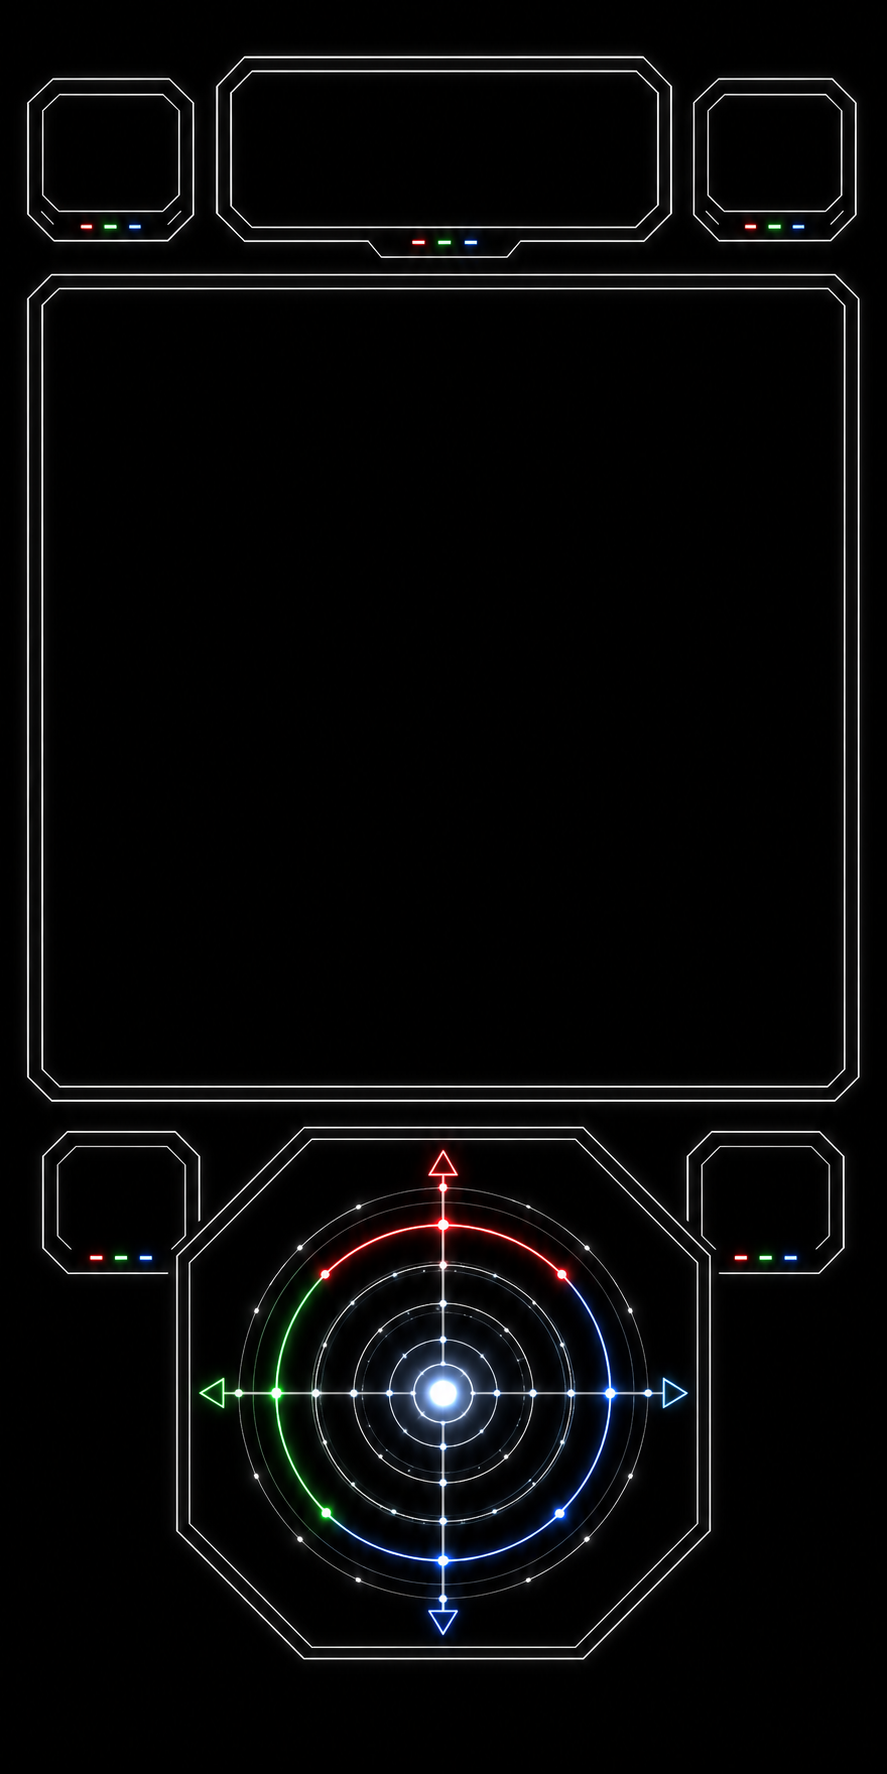
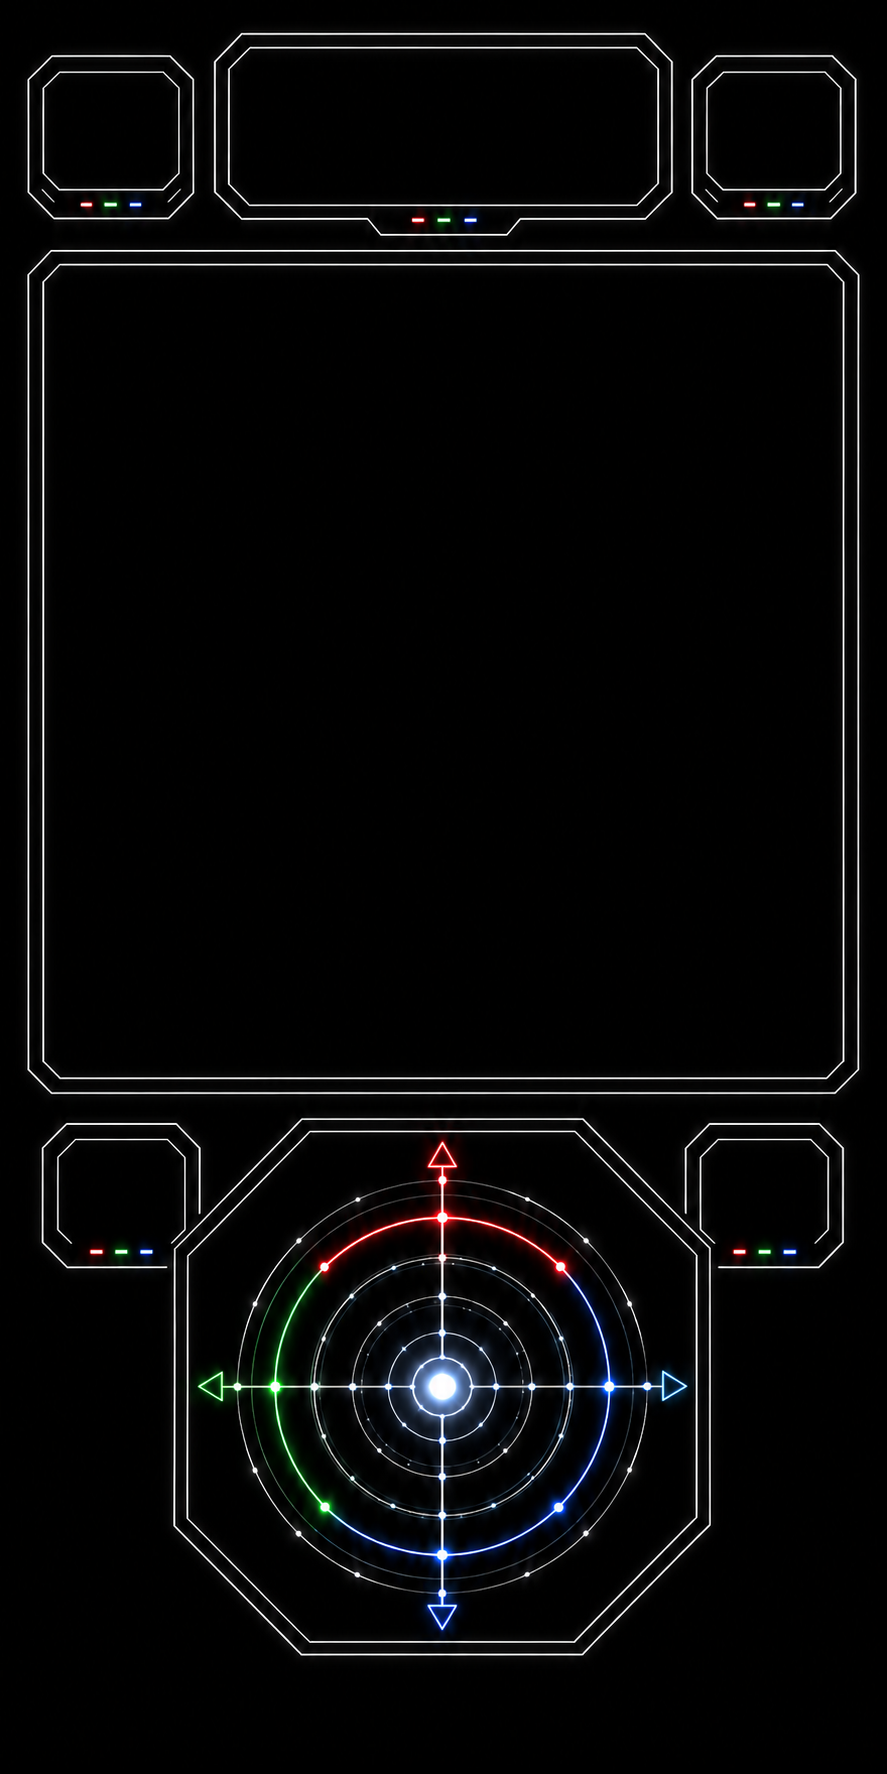
Add files via upload

Changed region(s): [[0.0304, 0.0, 0.9741, 0.9611], [0.274, 0.8991, 0.3348, 0.9301]]

diff --git a/index.html b/index.html
@@ -1,7 +1,7 @@
 <!DOCTYPE html>
 <!--
 Block-A-Zoids
-Trackpad Prototype p067: Nudges the Vector playfield slightly higher again and moves only the Sector/Cycle numeric values upward while keeping their labels fixed.
+Trackpad Prototype p068: Uses the vertically tightened Vector skin and recalibrates the top HUD, playfield, lower status readouts, and lower controls to the revised artwork geometry.
 Copyright © 2026 Marcus Couto. All rights reserved.
 
 This source code, artwork, game design, and related assets are not licensed for reuse, redistribution, modification, or commercial use without written permission.
@@ -10,7 +10,7 @@ Font License Notices
 - Orbitron: Copyright 2018 The Orbitron Project Authors (https://github.com/theleagueof/orbitron), with Reserved Font Name ‘Orbitron’. Designed originally by Matt McInerney. Licensed under the SIL Open Font License, Version 1.1. Keep OFL.txt with the distributed font files. The Orbitron license applies only to the font software and does not place Block-A-Zoids under the OFL.
 
 -->
-<html data-build-version="trackpad-p067">
+<html data-build-version="trackpad-p068">
 <head>
     <meta name="viewport" content="width=device-width, initial-scale=1.0, minimum-scale=1.0, maximum-scale=1.0, viewport-fit=cover, user-scalable=no">
     <title>Block-A-Zoids</title>
@@ -7808,7 +7808,7 @@ Font License Notices
     </div>
 
     <script>
-        const BUILD_VERSION = `Build ${document.documentElement.dataset.buildVersion || 'trackpad-p067'}`;
+        const BUILD_VERSION = `Build ${document.documentElement.dataset.buildVersion || 'trackpad-p068'}`;
 
         // Central diagnostic feature flags. Change values here before loading the page to isolate systems.
         const GAME_FEATURE_FLAGS = window.BLOCKAZOIDS_FEATURE_FLAGS = {
@@ -9365,25 +9365,26 @@ Font License Notices
                             masterHeight: 1774,
                             masterPlayfieldSize: 790,
                             playfieldLeft: 5.240000,
-                            playfieldTop: 16.700000,
+                            playfieldTop: 15.347238,
                             scoreLeft: 25.479143,
-                            scoreTop: 4.058625,
+                            scoreTop: 2.762120,
                             scoreWidth: 48.590755,
                             scoreHeight: 8.850056,
                             zapLeft: 79.932356,
-                            zapTop: 5.467869,
+                            zapTop: 4.171364,
                             zapWidth: 14.881624,
                             zapHeight: 6.538895,
                             startLeft: 12.232244,
-                            startTop: 8.680947,
+                            startTop: 7.384442,
                             startWidth: 14.994363,
-                            statusTop: 68.550000,
+                            statusTop: 68.042841,
                             statusWidth: 14.994363,
                             sectorX: 13.900000,
                             cycleX: 85.700000,
-                            lowerControlsTop: 89.900000
+                            lowerControlsTop: 89.505073
                         },
                         candidates: [
+                            'blockazoids-skin-vector-frame-p068.png',
                             'blockazoids-skin-vector-frame.png',
                             'blockazoids-skin-vector-frame.webp',
                             'blockazoids-skin-vector-frame.jpg',